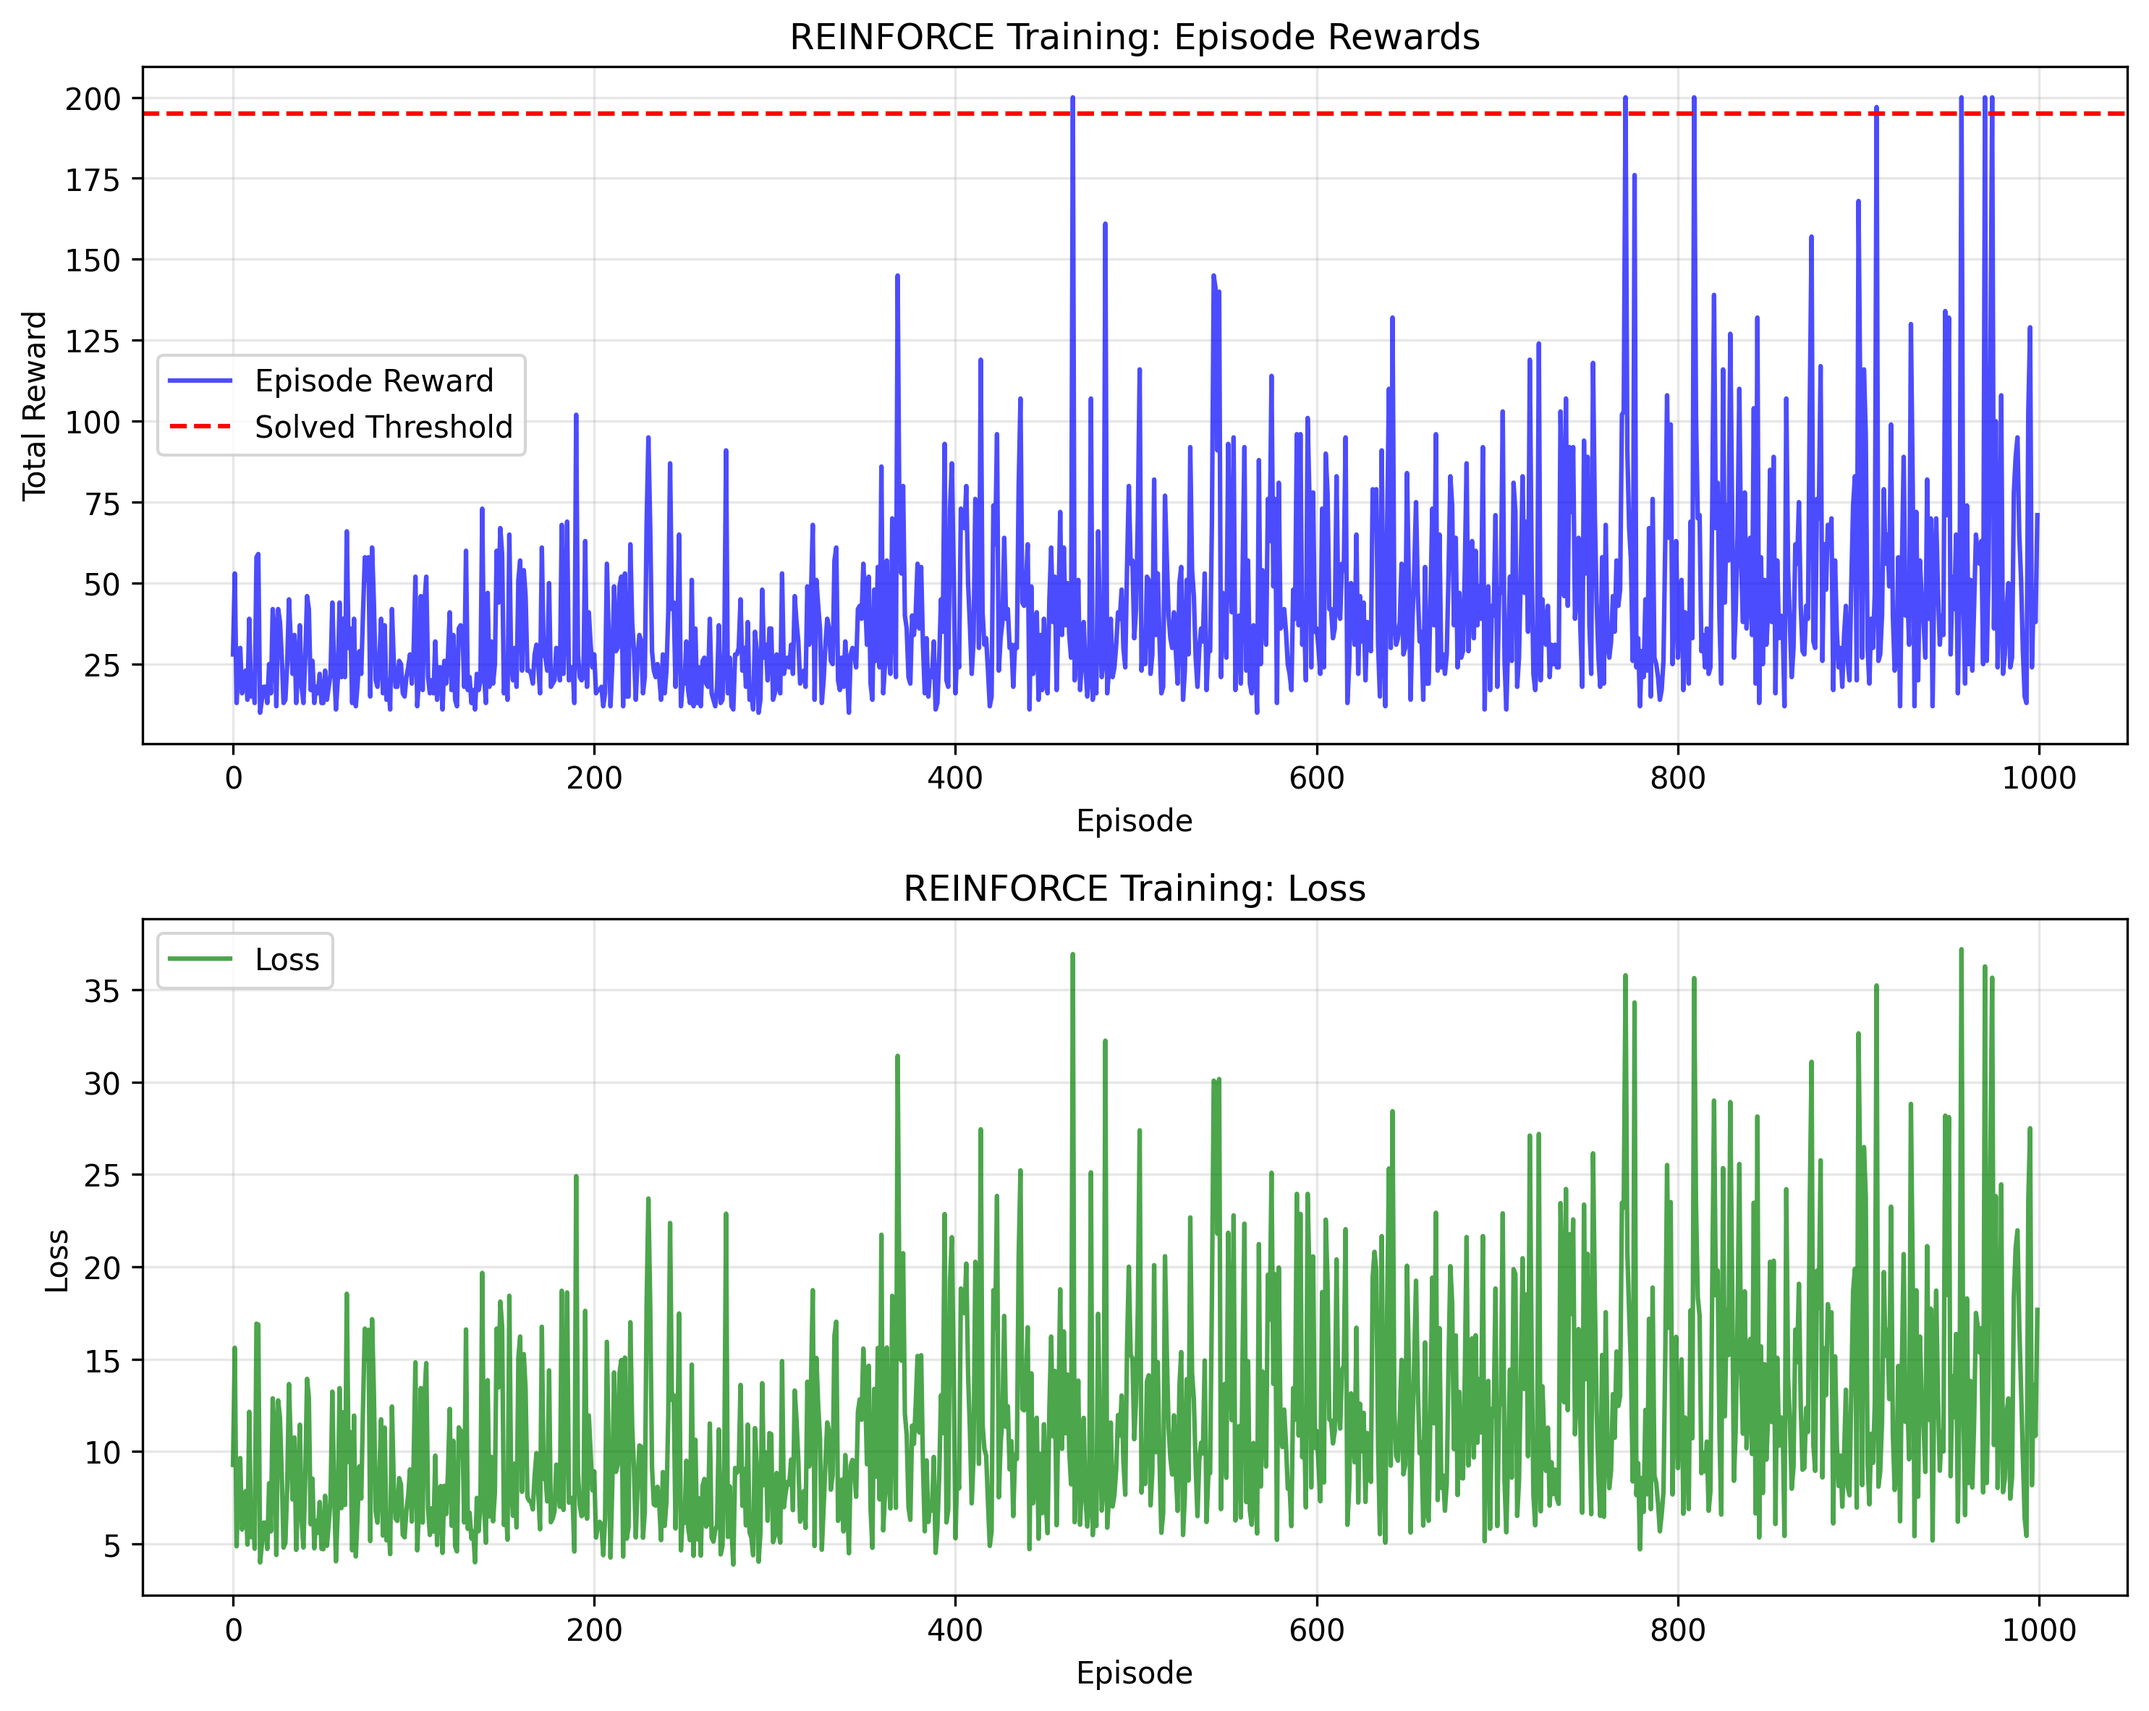
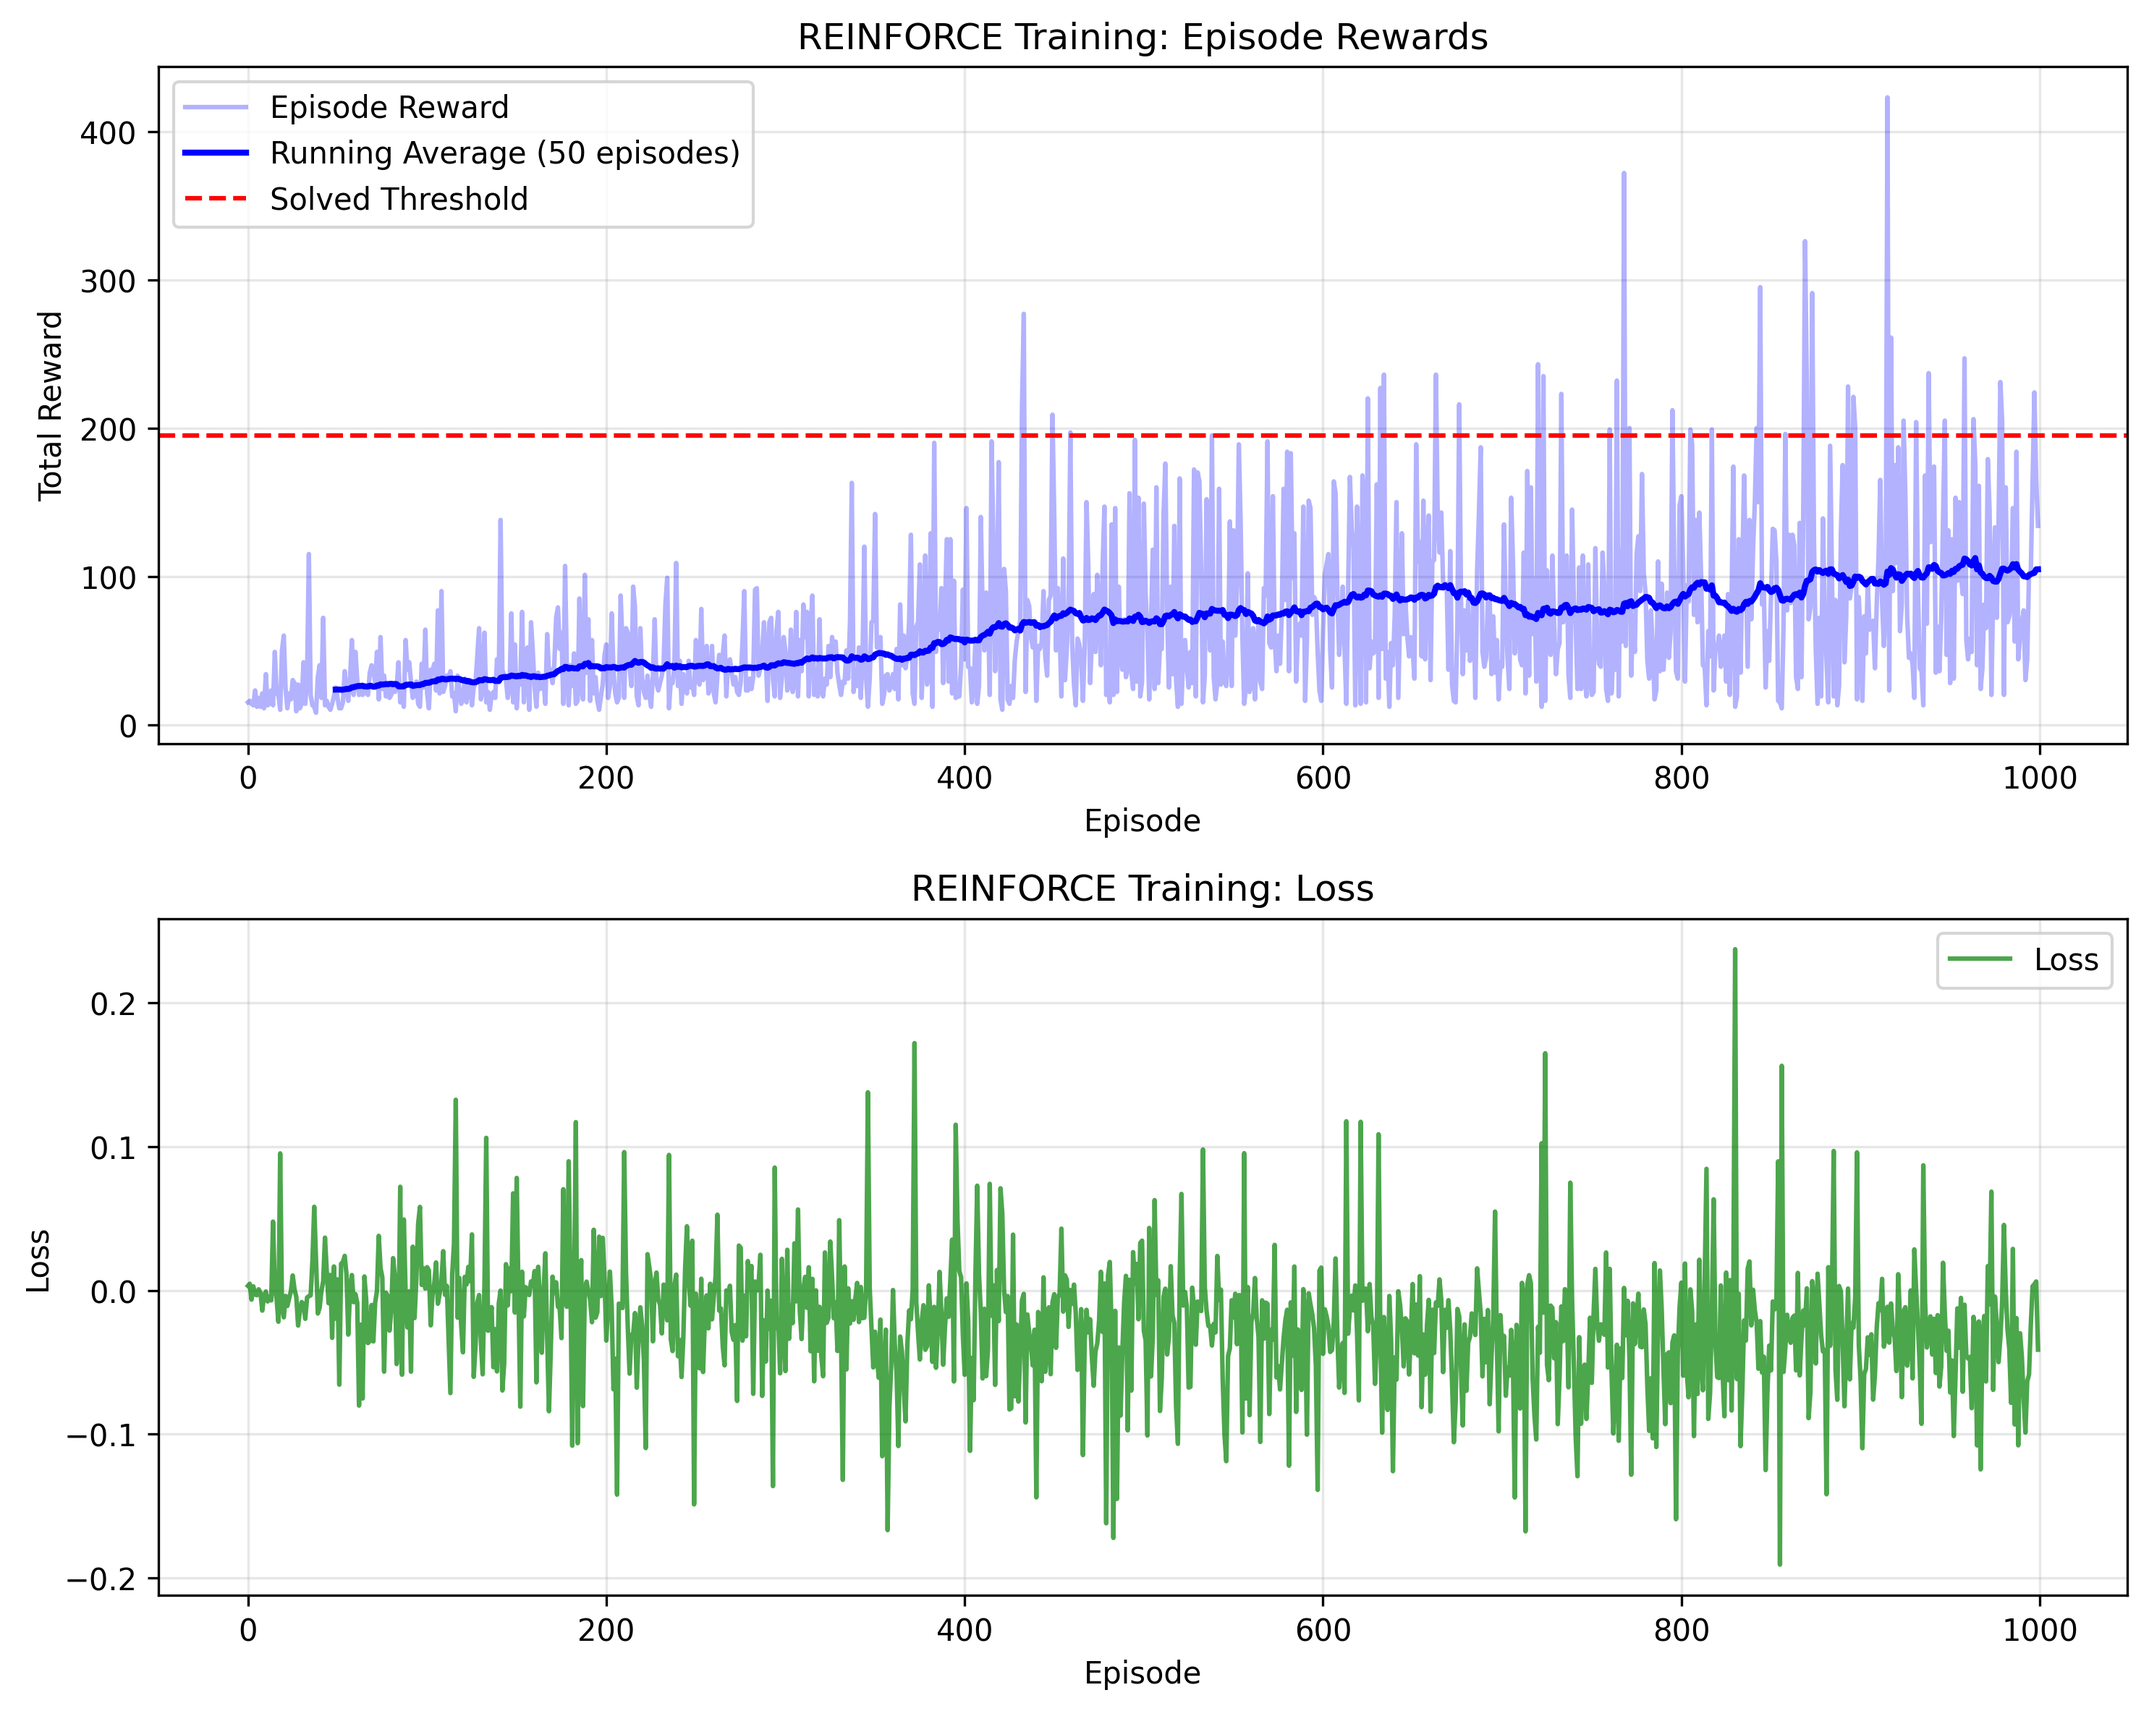
Add running avg to plot

diff --git a/cartpole_reinforce.py b/cartpole_reinforce.py
@@ -62,13 +62,33 @@ def train(pi, optimizer):
 
 
 def plot_training_results(
-    episodes, episode_rewards, episode_losses, filename="reinforce_training.png"
+    episodes,
+    episode_rewards,
+    episode_losses,
+    filename="reinforce_training.png",
+    window_size=50,
 ):
     """Plot training results showing rewards and loss over episodes."""
     fig, (ax1, ax2) = plt.subplots(2, 1, figsize=(10, 8))
 
+    # Calculate running average
+    def running_average(data, window):
+        return np.convolve(data, np.ones(window) / window, mode="valid")
+
+    running_avg = running_average(episode_rewards, window_size)
+    running_avg_episodes = episodes[
+        window_size - 1 :
+    ]  # Adjust episode indices for running average
+
     # Plot rewards
-    ax1.plot(episodes, episode_rewards, "b-", alpha=0.7, label="Episode Reward")
+    ax1.plot(episodes, episode_rewards, "b-", alpha=0.3, label="Episode Reward")
+    ax1.plot(
+        running_avg_episodes,
+        running_avg,
+        "b-",
+        linewidth=2,
+        label=f"Running Average ({window_size} episodes)",
+    )
     ax1.axhline(y=195, color="r", linestyle="--", label="Solved Threshold")
     ax1.set_xlabel("Episode")
     ax1.set_ylabel("Total Reward")
@@ -108,7 +128,7 @@ def main():
     episode_rewards = []
     episodes = []
 
-    for epi in range(5000):
+    for epi in range(1000):
         state, _ = env.reset()
         for t in range(100000):
             action = pi.act(state)
